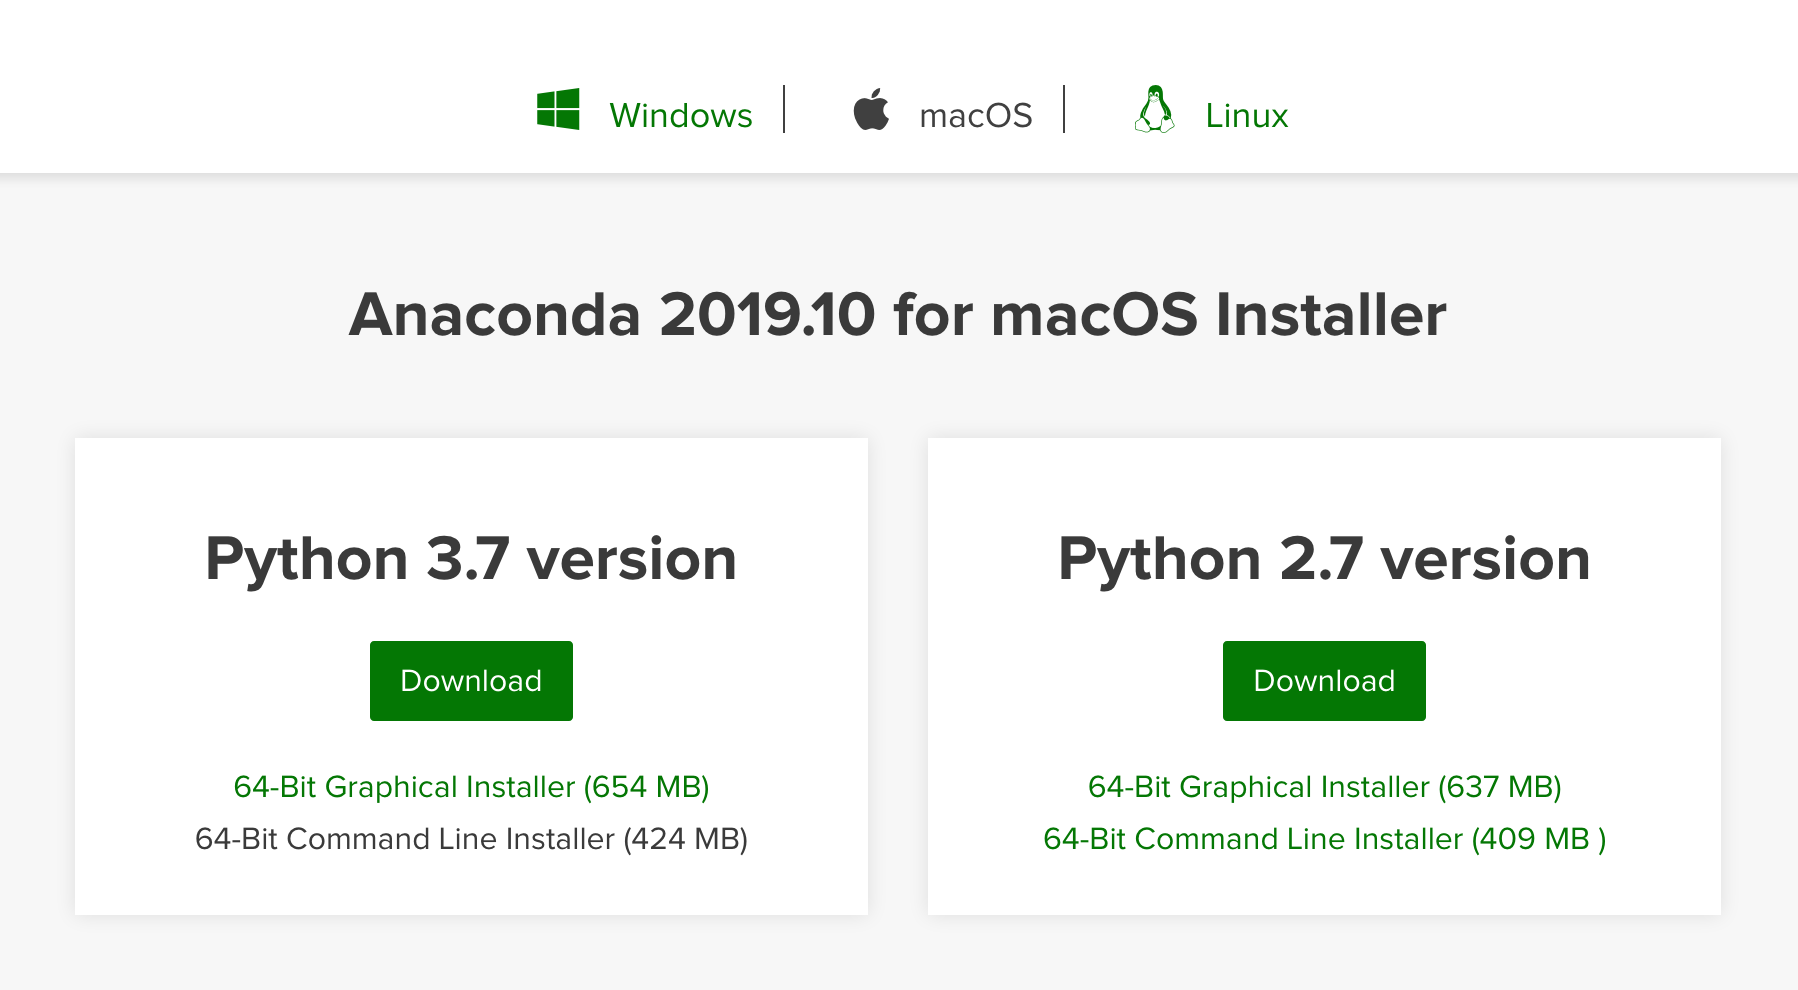
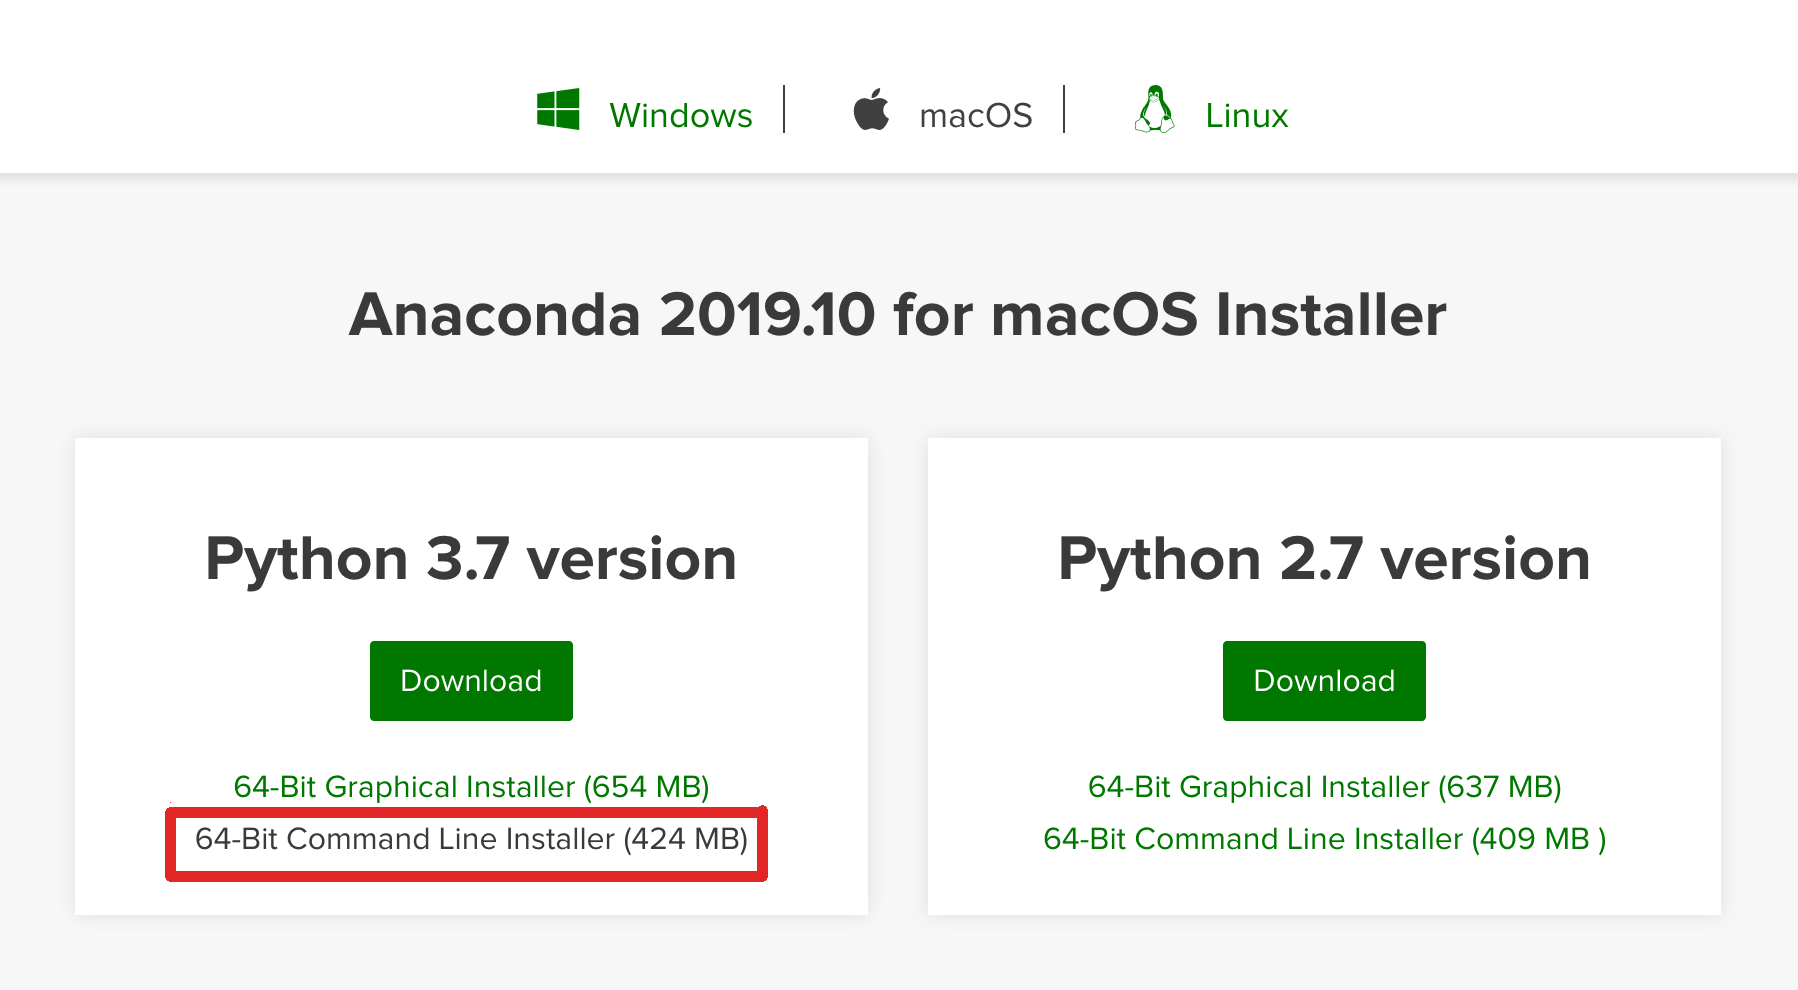
added image

Changed region(s): [[0.0934, 0.8182, 0.436, 0.9091]]

diff --git a/docs/install_instruction_macos_mojave.md b/docs/install_instruction_macos_mojave.md
@@ -14,7 +14,7 @@ Go to the [anaconda website] and download the __Command line installer__ for Mac
 
 
 <details><summary>Click to see snapshot</summary>
-<img src="../images/anaconda_install_mac1.png"/>
+<img src="../images/anaconda_install_mac_1.png"/>
 </details>
 
 
